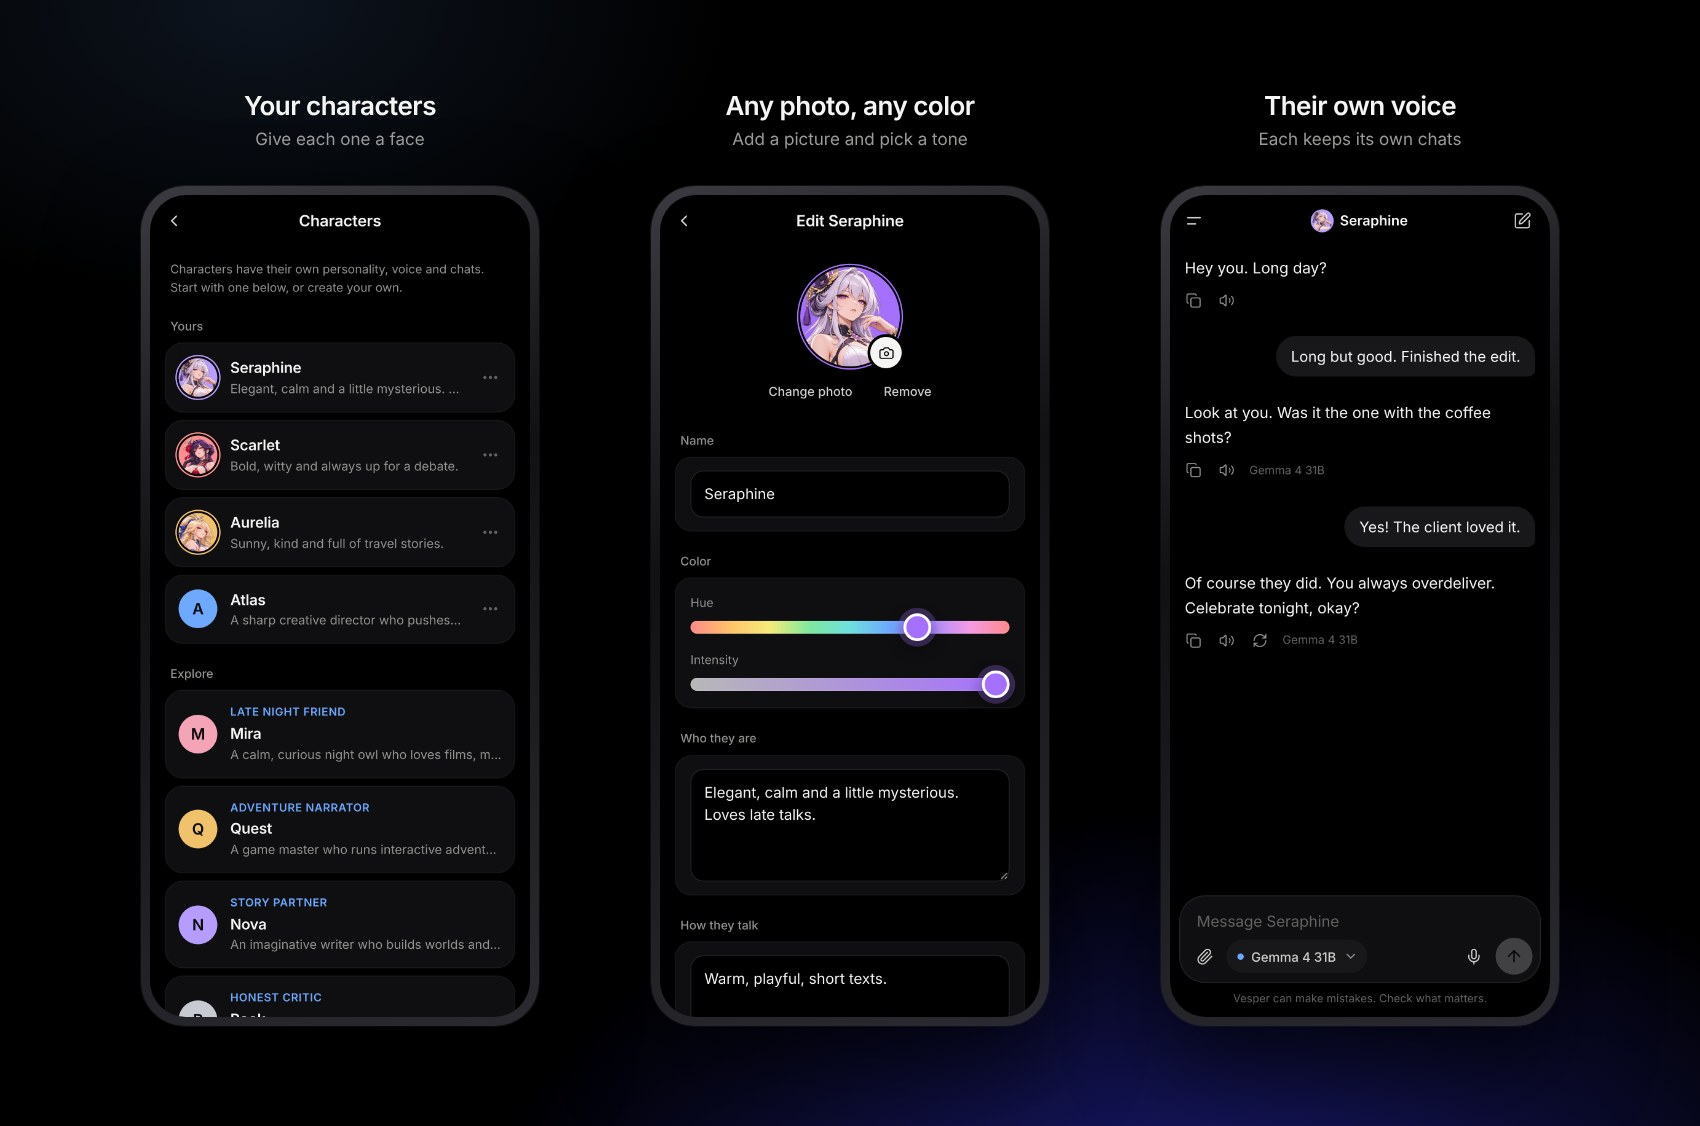
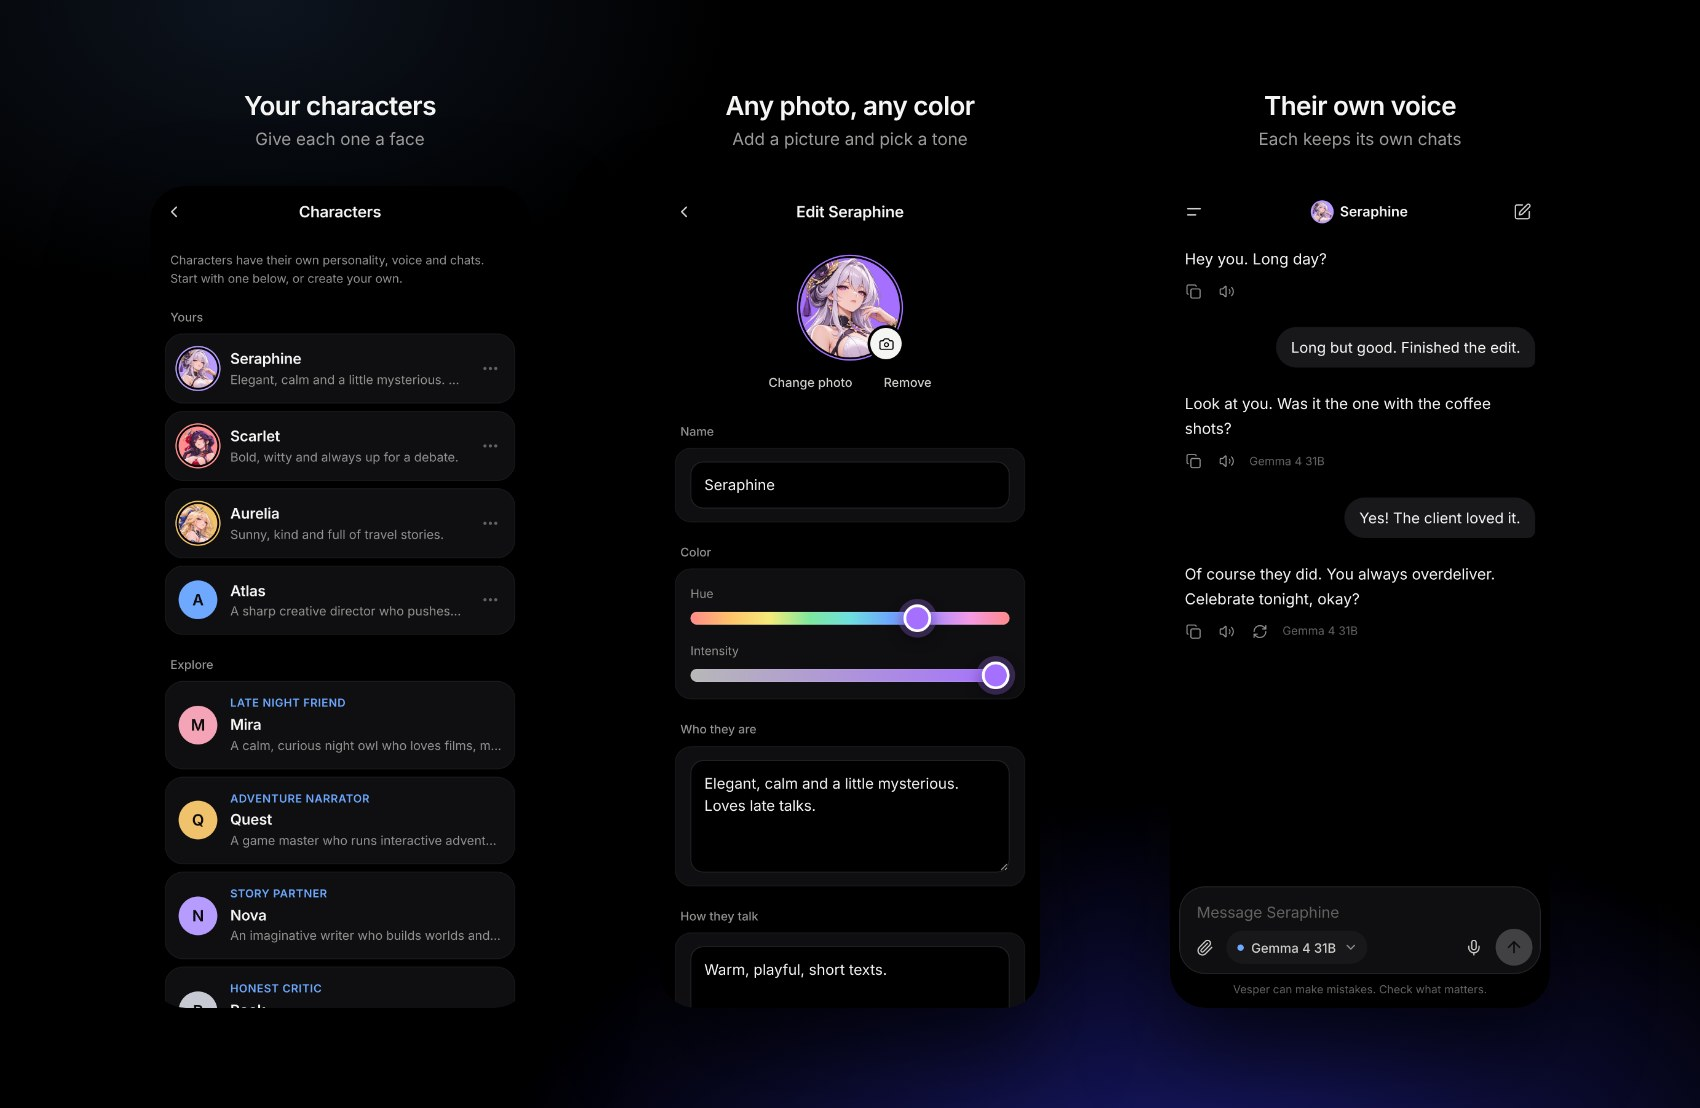
README art: plain rounded screenshots, no frame lines
Claude-Session: https://claude.ai/code/session_01Pqes7qMJVCgUAH6HtcUGzX

diff --git a/docs/art/make-art.js b/docs/art/make-art.js
@@ -169,7 +169,7 @@ function artPage(body, width) {
   *{box-sizing:border-box}
   body{margin:0;width:${width}px;background:#000;color:#f5f5f4;font-family:Inter,sans-serif;-webkit-font-smoothing:antialiased}
   .glow{position:absolute;inset:0;background:radial-gradient(60% 55% at 70% 110%,rgba(58,60,255,.45),rgba(0,0,0,0) 70%),radial-gradient(40% 40% at 15% 0%,rgba(110,168,255,.12),rgba(0,0,0,0) 70%)}
-  .phone{width:fit-content;margin:0 auto;border-radius:44px;padding:9px;background:linear-gradient(160deg,#3a3a40,#111114 40%,#2a2a30);box-shadow:0 40px 90px rgba(0,0,0,.65),0 0 0 1px rgba(255,255,255,.08)}
+  .phone{width:fit-content;margin:0 auto;border-radius:36px;box-shadow:0 40px 90px rgba(0,0,0,.65)}
   .phone img{display:block;border-radius:36px}
   .cap{font-size:26px;font-weight:600;letter-spacing:-.02em;text-align:center;margin:0 0 6px}
   .sub{font-size:17px;color:#9a9a98;text-align:center;line-height:1.45;margin:0}
@@ -298,7 +298,7 @@ async function compose(browser, base) {
   await render("promo/2-private.jpg", slide("Your chats never<br>leave your phone.", "No servers, no tracking. Keys, chats and memory stay on your device.",
     phoneAt("drawer", 400, 560, 120) + phoneAt("memory", 400, 620, 560)), 1080);
   await render("promo/3-your-pc.jpg", slide("Run AI on your PC.<br>Offline.", "Vesper for Windows picks models that fit your computer and runs them right there.",
-    `<div style="position:absolute;left:60px;right:60px;top:600px;border-radius:16px;overflow:hidden;box-shadow:0 40px 100px rgba(0,0,0,.7),0 0 0 1px rgba(255,255,255,.1)"><img src="${img("desktop-pc")}" style="display:block;width:960px"></div>`), 1080);
+    `<div style="position:absolute;left:60px;right:60px;top:600px;border-radius:16px;overflow:hidden;box-shadow:0 40px 100px rgba(0,0,0,.7)"><img src="${img("desktop-pc")}" style="display:block;width:960px"></div>`), 1080);
   await render("promo/4-characters.jpg", slide("Characters with<br>real personality.", "Pick a ready character or create your own. Each keeps its own chats.",
     phoneAt("companions", 400, 540, 120) + phoneAt("companion", 400, 610, 560)), 1080);
   await ctx.close();
